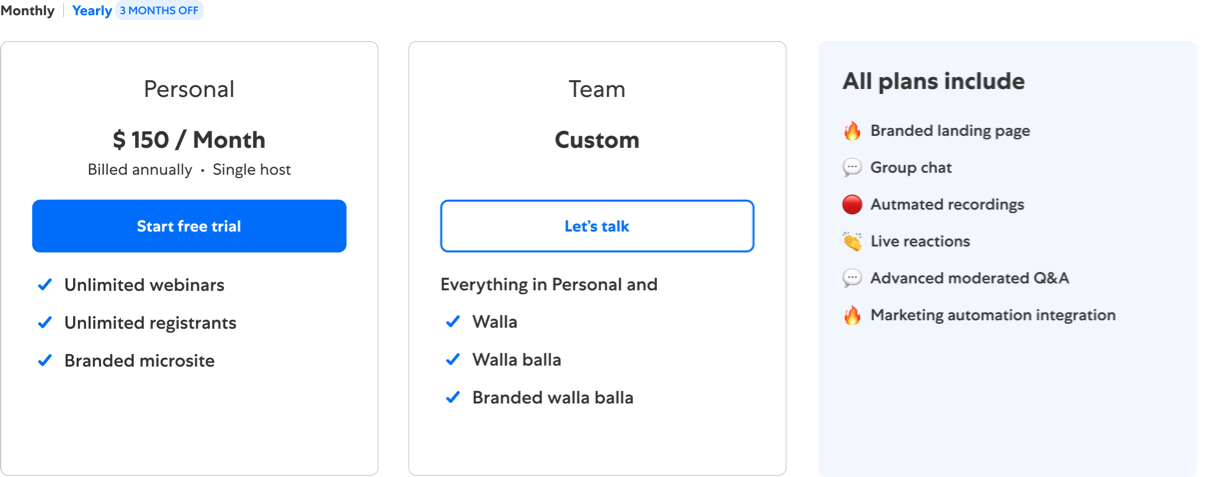
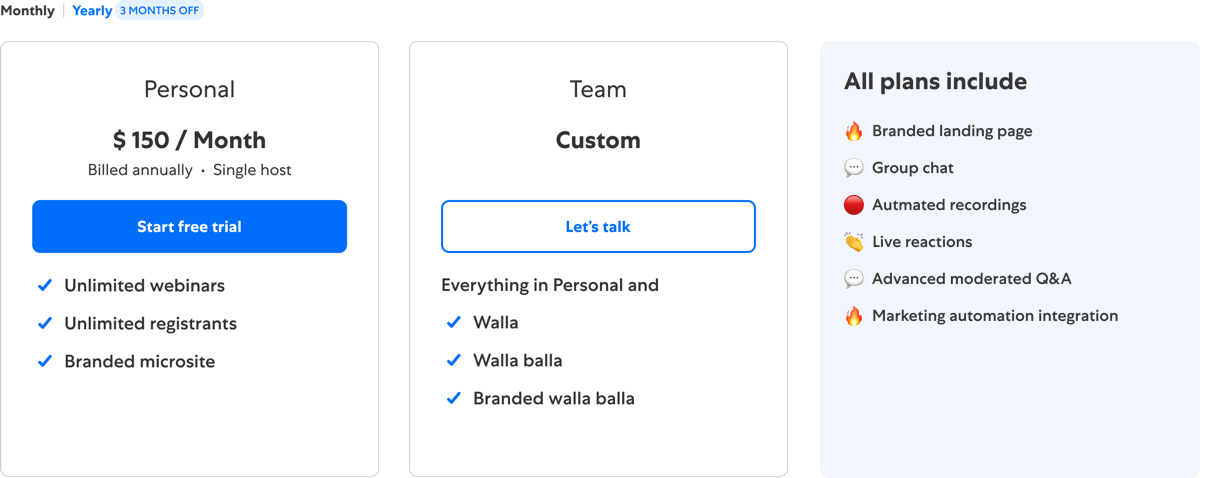
h

diff --git a/index.hyperesources/index_hype_generated_script.js b/index.hyperesources/index_hype_generated_script.js
@@ -4,7 +4,7 @@
 !1)try{for(var c=document.getElementsByTagName("script"),a=0;a<c.length;a++){var d=c[a].src,b=null!=d?d.indexOf("/index_hype_generated_script.js"):-1;if(-1!=b){l=d.substr(0,b);break}}}catch(p){}c=null==navigator.userAgentData&&navigator.userAgent.match(/MSIE (\d+\.\d+)/);c=parseFloat(c&&c[1])||null;d=!0==(null!=window.HYPE_748F||null!=window.HYPE_dtl_748F)||false==!0||null!=c&&10>c;a=!0==d?"HYPE-748.full.min.js":"HYPE-748.thin.min.js";c=!0==d?"F":"T";
 d=d?"":"";if(false==!1&&(a=k("HYPE_748"+c,"HYPE_dtl_748"+c,a,d),false==!0&&(a=a||k("HYPE_w_748","HYPE_wdtl_748","HYPE-748.waypoints.min.js","")),false==!0&&(a=a||k("Matter","HYPE_pdtl_748","HYPE-748.physics.min.js","")),a))return;d=window.HYPE.documents;if(null!=d[f]){b=1;a=f;do f=""+a+"-"+b++;while(null!=d[f]);for(var e=
 document.getElementsByTagName("div"),b=!1,a=0;a<e.length;a++)if(e[a].id==g&&null==e[a].getAttribute("HYP_dn")){var b=1,h=g;do g=""+h+"-"+b++;while(null!=document.getElementById(g));e[a].id=g;b=!0;break}if(!1==b)return}b=[];b=[];e={};h={};for(a=0;a<b.length;a++)try{h[b[a].identifier]=b[a].name,e[b[a].name]=eval("(function(){return "+b[a].source+"})();")}catch(n){window.console&&window.console.log(n),e[b[a].name]=function(){}}c=new window["HYPE_748"+c](f,g,{"-2":{n:"blank.gif"},"18":{p:1,n:"money_back_2.png",g:"267",t:"@1x"},"10":{p:1,n:"kaltura_logo.png",g:"237",t:"@1x"},"19":{p:1,n:"logos.png",g:"269",t:"@1x"},"11":{p:1,n:"contact_us_btn.png",g:"239",t:"@1x"},"0":{n:"webcam_2.mp4",g:"50",t:"video/mp4"},"12":{p:1,n:"pricing_plans.png",g:"242",t:"@1x"},"1":{n:"webcam_1.mp4",g:"52",t:"video/mp4"},"2":{p:1,n:"cursor.png",g:"64",t:"@1x"},"13":{p:1,n:"features.png",g:"246",t:"@1x"},"3":{p:1,n:"poll.png",g:"32",t:"@1x"},"14":{p:1,n:"money_back.png",g:"248",t:"@1x"},"4":{p:1,n:"room_toolbar.png",g:"48",t:"@1x"},"5":{p:1,n:"speaker_modal.png",g:"62",t:"@1x"},"15":{p:1,n:"background_shape.png",g:"244",t:"@1x"},"6":{p:1,n:"landing_page.png",g:"59",t:"@1x"},"16":{p:1,n:"plans.png",g:"265",o:true,t:"@1x"},"7":{p:1,n:"ep_overview.png",g:"137",t:"@1x"},"-1":{n:"PIE.htc"},"8":{p:1,n:"main_title.png",g:"233",t:"@1x"},"17":{p:1,n:"plans_2x.png",g:"265",o:true,t:"@2x"},"9":{p:1,n:"main_menu.png",g:"235",t:"@1x"}},
-l,["<link href='https://fonts.googleapis.com/css?family=Lato:700&subset=latin' rel='stylesheet' type='text/css'>","<link href='https://fonts.googleapis.com/css?family=Lato&subset=latin' rel='stylesheet' type='text/css'>"],e,[{n:"Pricing page",o:"253",X:[0]},{n:"Pricing Page",o:"230",X:[1]}],[{o:"264",p:"600px",cA:false,a:100,Z:1400,Y:1280,c:"#FFF",L:[],bY:1,d:1280,U:{},T:{kTimelineDefaultIdentifier:{q:false,z:0,i:"kTimelineDefaultIdentifier",n:"Main Timeline",a:[],f:30,b:[]}},bZ:180,O:["271","273","272","274","275","276","277","278"],n:"Untitled Layout","_":0,v:{"278":{h:"269",p:"no-repeat",x:"visible",a:-321,q:"100% 100%",bS:37,j:"absolute",r:"inline",z:9,b:929,dB:"img",d:476,k:"div",cQ:1,c:1922,cR:1},"271":{x:"visible",k:"div",c:1280,d:78,z:5,a:0,bS:39,j:"absolute",b:0},"274":{h:"235",p:"no-repeat",x:"visible",a:386,q:"100% 100%",b:28,j:"absolute",r:"inline",z:1,bS:37,bF:"271",d:21,dB:"img",k:"div",c:508},"277":{h:"267",p:"no-repeat",x:"visible",a:274,dB:"img",q:"100% 100%",j:"absolute",r:"inline",z:8,bS:37,b:720,d:147,k:"div",c:731},"273":{h:"237",p:"no-repeat",x:"visible",a:26,dB:"img",q:"100% 100%",j:"absolute",r:"inline",z:2,bF:"271",b:17,d:43.5,k:"div",c:180},"276":{h:"265",p:"no-repeat",x:"visible",a:40,dB:"img",q:"100% 100%",j:"absolute",r:"inline",z:7,bS:37,b:199,d:477,k:"div",c:1199},"272":{h:"239",p:"no-repeat",x:"visible",a:1137,q:"100% 100%",b:19,j:"absolute",r:"inline",z:3,bS:33,bF:"271",d:40,dB:"img",k:"div",c:119},"275":{h:"233",p:"no-repeat",x:"visible",a:485,dB:"img",q:"100% 100%",j:"absolute",r:"inline",z:3,bS:37,b:110,d:45,k:"div",c:310}}},{o:"232",p:"600px",cA:false,a:100,Z:2000,Y:1280,c:"#FFF",L:[],bY:1,d:1280,U:{},T:{kTimelineDefaultIdentifier:{q:false,z:0,i:"kTimelineDefaultIdentifier",n:"Main Timeline",a:[],f:30,b:[]}},bZ:180,O:["283","281","282","280","279","284","285","286","287"],n:"Untitled Layout","_":1,v:{"281":{h:"237",p:"no-repeat",x:"visible",a:26,dB:"img",q:"100% 100%",j:"absolute",r:"inline",z:2,bF:"283",b:17,d:43.5,k:"div",c:180},"284":{h:"242",p:"no-repeat",x:"visible",a:245,dB:"img",q:"100% 100%",j:"absolute",r:"inline",z:4,bS:37,b:216,d:440,k:"div",c:790},"287":{h:"248",p:"no-repeat",x:"visible",a:-321,q:"100% 100%",bS:37,j:"absolute",r:"inline",z:6,b:1057,dB:"img",d:476,k:"div",cQ:1,c:1922,cR:1},"280":{h:"235",p:"no-repeat",x:"visible",a:386,q:"100% 100%",b:28,j:"absolute",r:"inline",z:1,bS:37,bF:"283",d:21,dB:"img",k:"div",c:508},"283":{x:"visible",k:"div",c:1280,d:78,z:5,a:0,bS:39,j:"absolute",b:0},"286":{h:"246",p:"no-repeat",x:"visible",a:40,dB:"img",q:"100% 100%",j:"absolute",r:"inline",z:2,bS:37,b:720,d:273,k:"div",c:1200},"279":{h:"233",p:"no-repeat",x:"visible",a:485,dB:"img",q:"100% 100%",j:"absolute",r:"inline",z:3,bS:37,b:110,d:45,k:"div",c:310},"282":{h:"239",p:"no-repeat",x:"visible",a:1137,q:"100% 100%",b:19,j:"absolute",r:"inline",z:3,bS:33,bF:"283",d:40,dB:"img",k:"div",c:119},"285":{h:"244",p:"no-repeat",x:"visible",a:-320,q:"100% 100%",bS:37,j:"absolute",r:"inline",z:1,b:542,dB:"img",d:620,k:"div",cQ:1,c:1922,cR:1}}}],{},h,{},
+l,["<link href='https://fonts.googleapis.com/css?family=Lato:700&subset=latin' rel='stylesheet' type='text/css'>","<link href='https://fonts.googleapis.com/css?family=Lato&subset=latin' rel='stylesheet' type='text/css'>"],e,[{n:"Pricing page",o:"253",X:[0]},{n:"Pricing Page",o:"230",X:[1]}],[{o:"264",p:"600px",cA:false,a:100,Z:1400,Y:1280,c:"#FFF",L:[],bY:1,d:1280,U:{},T:{kTimelineDefaultIdentifier:{q:false,z:0,i:"kTimelineDefaultIdentifier",n:"Main Timeline",a:[],f:30,b:[]}},bZ:180,O:["271","273","272","274","275","276","277","278"],n:"Untitled Layout","_":0,v:{"278":{h:"269",p:"no-repeat",x:"visible",a:-321,q:"100% 100%",bS:37,j:"absolute",r:"inline",z:9,b:929,dB:"img",d:476,k:"div",cQ:1,c:1922,cR:1},"271":{x:"visible",k:"div",c:1280,d:78,z:5,a:0,bS:39,j:"absolute",b:0},"274":{h:"235",p:"no-repeat",x:"visible",a:386,q:"100% 100%",b:28,j:"absolute",r:"inline",z:1,bS:37,bF:"271",d:21,dB:"img",k:"div",c:508},"277":{h:"267",p:"no-repeat",x:"visible",a:274,dB:"img",q:"100% 100%",j:"absolute",r:"inline",z:8,bS:37,b:720,d:147,k:"div",c:731},"273":{h:"237",p:"no-repeat",x:"visible",a:26,dB:"img",q:"100% 100%",j:"absolute",r:"inline",z:2,bF:"271",b:17,d:43.5,k:"div",c:180},"276":{h:"265",p:"no-repeat",x:"visible",a:40,q:"100% 100%",bS:37,j:"absolute",r:"inline",z:7,b:199,dB:"img",d:478,k:"div",cQ:1,c:1223,cR:1},"272":{h:"239",p:"no-repeat",x:"visible",a:1137,q:"100% 100%",b:19,j:"absolute",r:"inline",z:3,bS:33,bF:"271",d:40,dB:"img",k:"div",c:119},"275":{h:"233",p:"no-repeat",x:"visible",a:485,dB:"img",q:"100% 100%",j:"absolute",r:"inline",z:3,bS:37,b:110,d:45,k:"div",c:310}}},{o:"232",p:"600px",cA:false,a:100,Z:2000,Y:1280,c:"#FFF",L:[],bY:1,d:1280,U:{},T:{kTimelineDefaultIdentifier:{q:false,z:0,i:"kTimelineDefaultIdentifier",n:"Main Timeline",a:[],f:30,b:[]}},bZ:180,O:["283","281","282","280","279","284","285","286","287"],n:"Untitled Layout","_":1,v:{"281":{h:"237",p:"no-repeat",x:"visible",a:26,dB:"img",q:"100% 100%",j:"absolute",r:"inline",z:2,bF:"283",b:17,d:43.5,k:"div",c:180},"284":{h:"242",p:"no-repeat",x:"visible",a:245,dB:"img",q:"100% 100%",j:"absolute",r:"inline",z:4,bS:37,b:216,d:440,k:"div",c:790},"287":{h:"248",p:"no-repeat",x:"visible",a:-321,q:"100% 100%",bS:37,j:"absolute",r:"inline",z:6,b:1057,dB:"img",d:476,k:"div",cQ:1,c:1922,cR:1},"280":{h:"235",p:"no-repeat",x:"visible",a:386,q:"100% 100%",b:28,j:"absolute",r:"inline",z:1,bS:37,bF:"283",d:21,dB:"img",k:"div",c:508},"283":{x:"visible",k:"div",c:1280,d:78,z:5,a:0,bS:39,j:"absolute",b:0},"286":{h:"246",p:"no-repeat",x:"visible",a:40,dB:"img",q:"100% 100%",j:"absolute",r:"inline",z:2,bS:37,b:720,d:273,k:"div",c:1200},"279":{h:"233",p:"no-repeat",x:"visible",a:485,dB:"img",q:"100% 100%",j:"absolute",r:"inline",z:3,bS:37,b:110,d:45,k:"div",c:310},"282":{h:"239",p:"no-repeat",x:"visible",a:1137,q:"100% 100%",b:19,j:"absolute",r:"inline",z:3,bS:33,bF:"283",d:40,dB:"img",k:"div",c:119},"285":{h:"244",p:"no-repeat",x:"visible",a:-320,q:"100% 100%",bS:37,j:"absolute",r:"inline",z:1,b:542,dB:"img",d:620,k:"div",cQ:1,c:1922,cR:1}}}],{},h,{},
 (function (shouldShow, mainContentContainer) {
 	var loadingPageID = mainContentContainer.id + "_loading";
 	var loadingDiv = document.getElementById(loadingPageID);

diff --git a/index.html b/index.html
@@ -26,7 +26,7 @@
 	<!-- copy these lines to your document: -->
 
 	<div id="index_hype_container" class="HYPE_document" style="margin:auto;position:relative;width:100%;height:1400px;overflow:hidden;">
-		<script type="text/javascript" charset="utf-8" src="index.hyperesources/index_hype_generated_script.js?13074"></script>
+		<script type="text/javascript" charset="utf-8" src="index.hyperesources/index_hype_generated_script.js?41155"></script>
 	</div>
 
 	<!-- end copy -->
